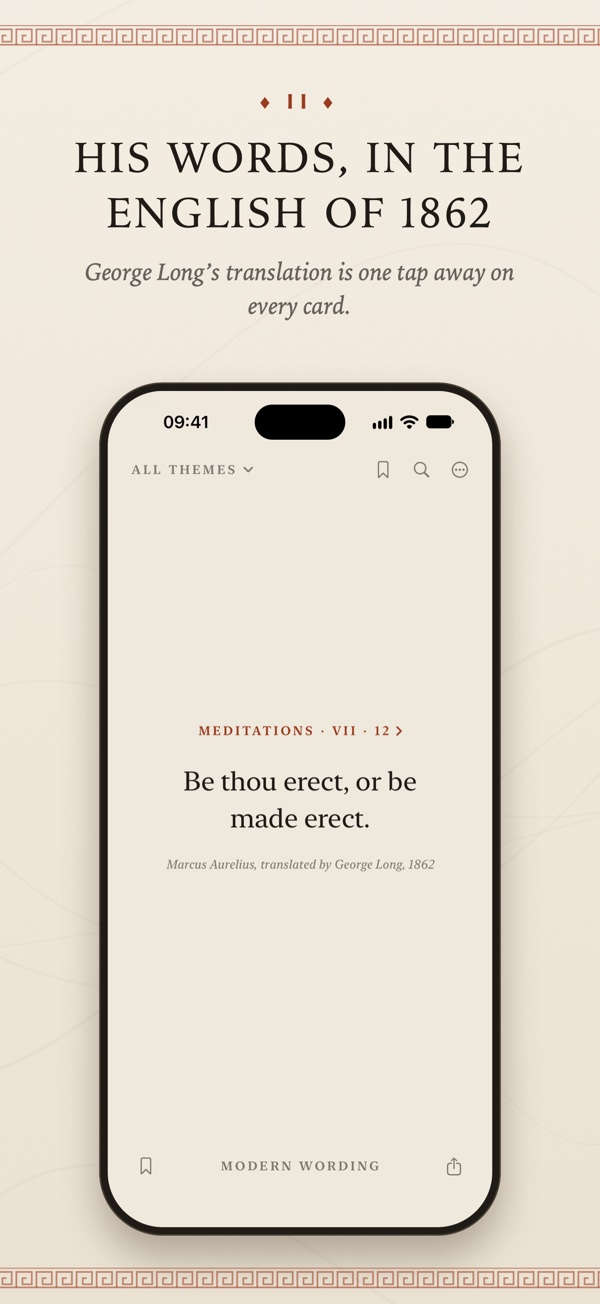
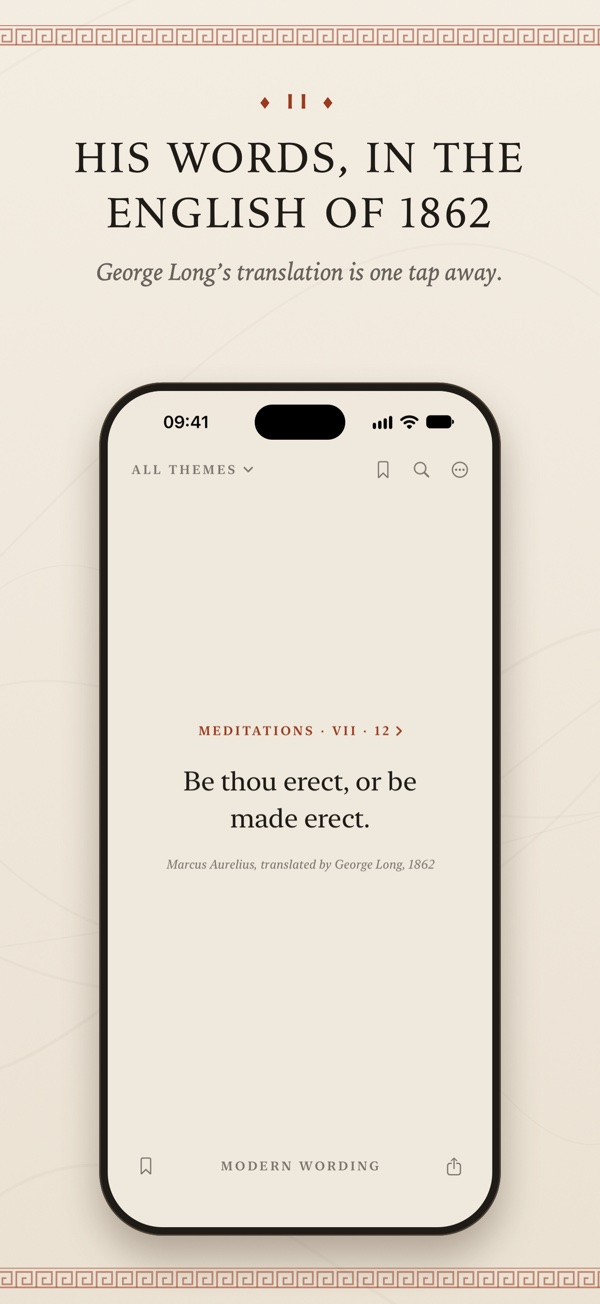
Publish the pages of e614b13

Changed region(s): [[0.15, 0.184, 0.87, 0.2454]]

diff --git a/index.html b/index.html
@@ -3,8 +3,8 @@
 <head>
 <meta charset="utf-8">
 <meta name="viewport" content="width=device-width, initial-scale=1">
-<title>To Himself · Marcus Aurelius and Epictetus, one passage at a time</title>
-<meta name="description" content="An iPhone app that shows the Meditations of Marcus Aurelius and the Enchiridion of Epictetus one passage at a time, in clear modern English, with George Long’s translation one tap away.">
+<title>To Himself · Marcus Aurelius, Epictetus and Seneca, one passage at a time</title>
+<meta name="description" content="An iPhone app that shows Marcus Aurelius, Epictetus and Seneca one passage at a time, in clear modern English, with the classic translation one tap away.">
 <link rel="icon" href="img/icon.png">
 <link rel="apple-touch-icon" href="img/icon.png">
 <link rel="stylesheet" href="style.css">
@@ -29,7 +29,7 @@
 </details>
 </section>
 
-<p class="lead">Marcus Aurelius wrote his notebook for nobody but himself. To Himself is an iPhone app that brings it to you one passage at a time, together with the Enchiridion of Epictetus.</p>
+<p class="lead">Marcus Aurelius wrote his notebook for nobody but himself. To Himself is an iPhone app that brings it to you one passage at a time, together with the Discourses and the Enchiridion of Epictetus and eleven dialogues of Seneca.</p>
 
 <div class="shots">
 <img src="img/screen-1.jpg" width="600" height="1304" alt="The app showing one passage from the Meditations, with its place in the book above it.">
@@ -43,9 +43,9 @@
 <section>
 <h2>What you can do</h2>
 <ul>
-<li>Read passages from the Meditations and the Enchiridion, one to a screen</li>
+<li>Read passages from Marcus Aurelius, Epictetus and Seneca, one to a screen</li>
 <li>Pick one of nine themes, from mornings and anger to death and time</li>
-<li>Open any passage at its place in the book and read on: the complete text of both works is included</li>
+<li>Open any passage at its place in the book and read on: the complete text of every work is included</li>
 <li>Search by word, or by place such as 4.17</li>
 <li>Save the passages you want to keep</li>
 <li>Share a passage as a picture</li>
@@ -58,7 +58,7 @@
 
 <section>
 <h2>The text</h2>
-<p>Every passage is from the Meditations of Marcus Aurelius or the Enchiridion of Epictetus. The original wording is George Long’s translation (Meditations 1862, Enchiridion 1877). The modern wording was written for this app from Long’s text. Nothing is invented and nothing is copied from the web.</p>
+<p>Every passage is from the Meditations of Marcus Aurelius, the Discourses or the Enchiridion of Epictetus, or one of Seneca’s dialogues. The original wording is that of two translators: George Long (Marcus Aurelius 1862, Epictetus 1877) and Aubrey Stewart (Seneca 1889). The modern wording was written for this app from their text. Nothing is invented and nothing is copied from the web.</p>
 
 <h2>What is not here</h2>
 <p>No account, no ads, no tracking. The text is stored in the app, your saved passages and settings stay on your iPhone, and nothing is sent anywhere.</p>

diff --git a/support.html b/support.html
@@ -11,7 +11,7 @@
 <p class="mark"><a href="./">To Himself</a></p>
 
 <h1>Support</h1>
-<p>To Himself is an iPhone app. It shows passages from the Meditations of Marcus Aurelius and the Enchiridion of Epictetus one at a time, in clear modern English, with George Long’s translation one tap away.</p>
+<p>To Himself is an iPhone app. It shows passages from Marcus Aurelius, Epictetus and Seneca one at a time, in clear modern English, with the classic translation one tap away.</p>
 
 <h2>Contact</h2>
 <p>A question, a mistake in a passage, or something that does not work: write to <a href="mailto:jajuhelp@gmail.com">jajuhelp@gmail.com</a>.</p>
